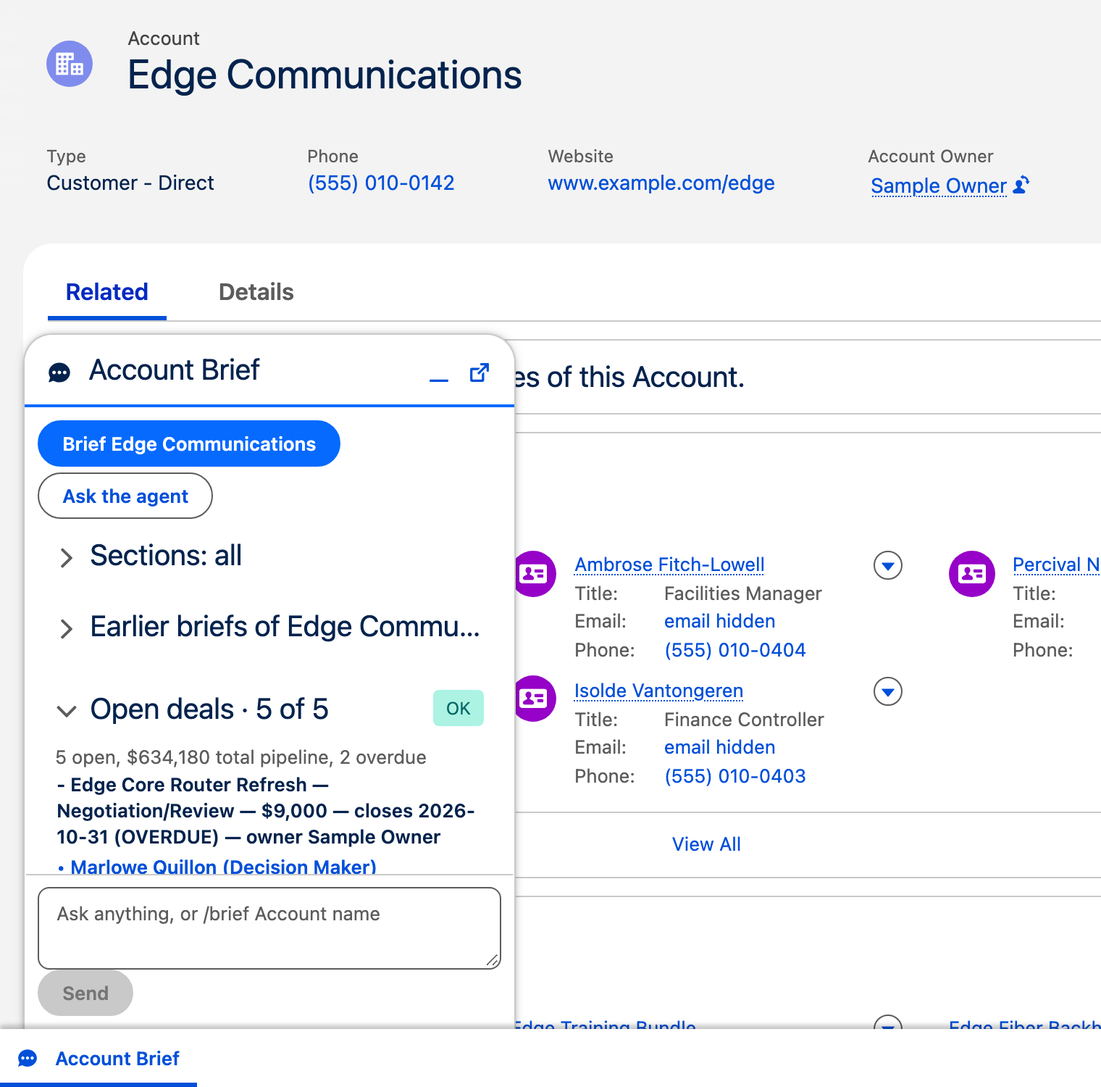
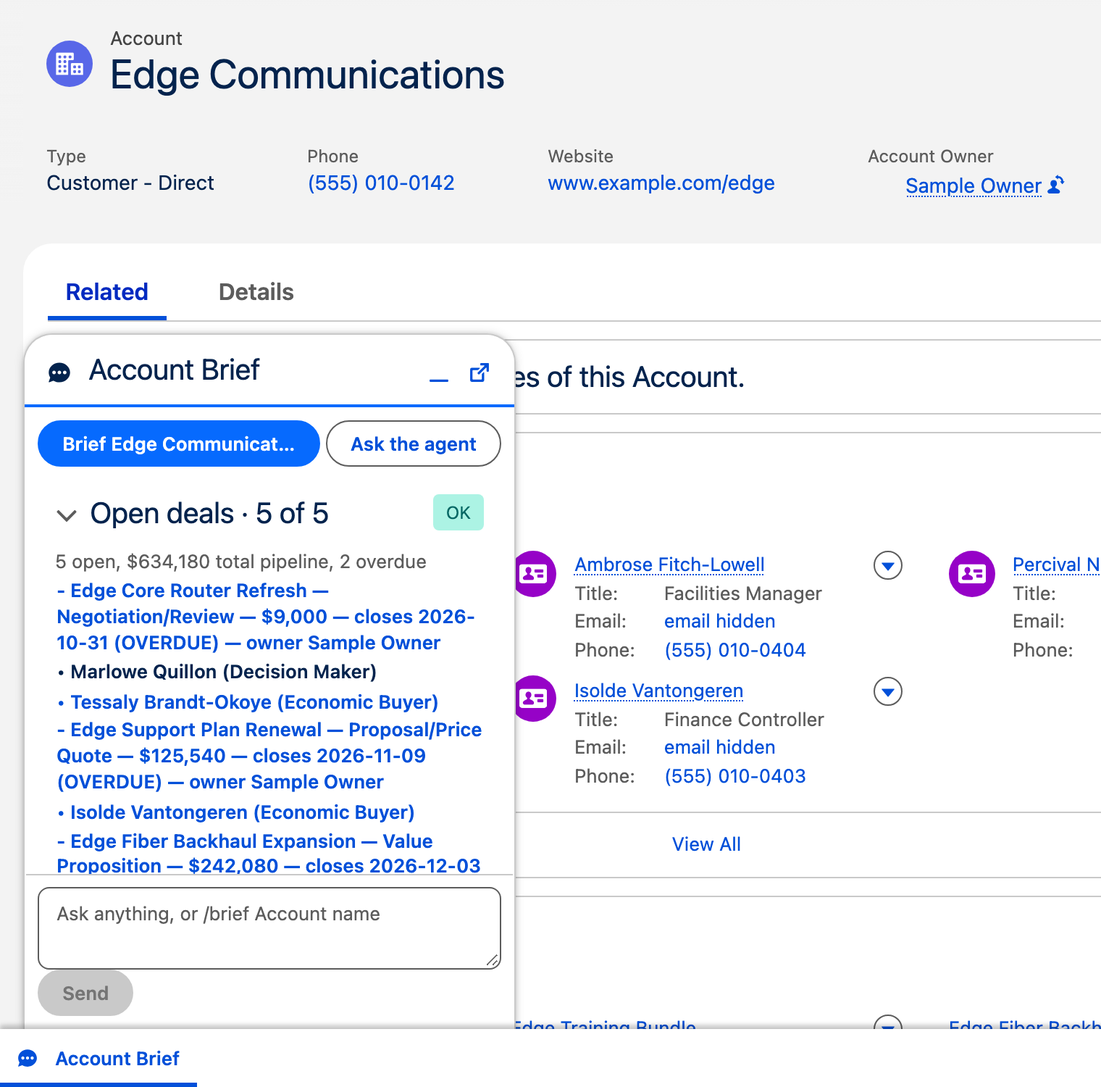
FE-10: recaptured assets on the one-row bar; captions, MANIFEST and docs match; v2 active, new NOT_FOUND text
The explore capture asks for a one-sentence answer so the question, answer and table header fit
the 273 px scroll box. Every still and GIF is from capture run 2.

diff --git a/e2e/capture/04-explore.capture.js b/e2e/capture/04-explore.capture.js
@@ -6,7 +6,9 @@
 const { test, expect, watch, still, gif, at, settle, savedVideo } = require('./kit');
 const { ANSWER_TIMEOUT } = require('../support/panel');
 
-const QUESTION = 'Which 5 open opportunities have the largest amounts?';
+// The explorer tends to list every row in its text, which pushes the table out of a 340x480 panel;
+// asking for one sentence keeps the question, the answer and the table's header row in one view.
+const QUESTION = 'Which 5 open opportunities have the largest amounts? Answer in one sentence.';
 
 test('explore-answer.png, explore-drill.gif, drill-view.png', async ({ page, panel, t0 }) => {
     const guard = watch(page, 'the explorer');
@@ -19,7 +21,7 @@ test('explore-answer.png, explore-drill.gif, drill-view.png', async ({ page, pan
     await expect(rows.first()).toBeVisible();
     await panel.composer.blur();
 
-    // explore-answer.png: the question at the top of the scroll box, then the one-line answer, the
+    // explore-answer.png: the question at the top of the scroll box, then the one-sentence answer, the
     // table's title and its header row. The run fails, naming the CSS px, if the header row does not
     // fit under the question: the still would not show what its caption says.
     const question = turn.locator('.abp-question').first();

diff --git a/README.md b/README.md
@@ -3,7 +3,7 @@
 **One keystroke in Salesforce gives a rep a sourced account brief or an answer about their CRM
 data, using only the records that rep is allowed to see.**
 
-![On an account page the Account Brief panel opens, "/brief Edge Communications" is typed and sent, the brief arrives, and the panel ends on its headline: "Two deals are overdue, including the support plan renewal critical to the account relationship, while a high-priority router case is escalated today."](docs/assets/brief-flow.gif)
+![The Account Brief panel on an account page: it opens with an empty conversation, "/brief Edge Communications" is typed and sent, a spinner shows, and the brief arrives and settles on its headline, "Two overdue deals and a high-priority BGP case threaten the support-plan renewal now in discussion with finance.", with the Account, Open deals and Service health rows under it](docs/assets/brief-flow.gif)
 
 This repo is a working Salesforce DX project. It holds an Agentforce Employee agent, a Lightning
 utility-bar panel, and the Apex behind both. Each part is written up as a pattern you can copy
@@ -19,7 +19,7 @@ metadata: prompts are plain-text static resources.
 | 3 | Hotkey panel | Cmd/Ctrl-K from any page in the app. No tab switching and no lost place. | [03](docs/patterns/03-hotkey-panel.md) |
 | 4 | Model provider seam | One class decides which model runs. You can swap it without touching the features. | [04](docs/patterns/04-model-provider-seam.md) |
 | 5 | Conversation memory | Follow-ups work, and earlier briefs of an account are listed when you come back. | [05](docs/patterns/05-conversation-memory.md) |
-| 6 | Agent routing and verbatim relay | The built-in Agentforce panel sends each ask to the same Apex as the custom panel. The current script is live in `agent-probe`; the org it was first built in still runs the older version 1. | [06](docs/patterns/06-agent-routing-and-verbatim-relay.md) |
+| 6 | Agent routing and verbatim relay | The built-in Agentforce panel sends each ask to the same Apex as the custom panel. Version 2 of the current script is active in `agent-probe`; the org it was first built in still runs the older version 1. | [06](docs/patterns/06-agent-routing-and-verbatim-relay.md) |
 | 7 | Trust, access and failure | Users see only what they can already see. Failures read as one plain sentence, never a stack trace. | [07](docs/patterns/07-trust-access-and-failure.md) |
 | 8 | Test and release lifecycle | Every change passes local, org and agent checks before anyone relies on it. | [08](docs/patterns/08-test-and-release-lifecycle.md) |
 | 9 | Outside door (MCP) | AI clients outside Salesforce can ask for the same brief under the same rules. Designed, not yet proven. | [09](docs/patterns/09-outside-door-mcp.md) |
@@ -91,8 +91,8 @@ once the agent is published. The panel needs only `Account_Brief_Data_Access`.
 
 The agent in the built-in Agentforce panel needs one more step: publish and activate the
 `Account_Brief` bundle. In `agent-probe`, a fresh Developer Edition org, main's bundle published
-on the first try and its version 1 is active
-([org-migration.md](docs/research/org-migration.md)). In the org this was first built in, every
+on the first try as version 1 ([org-migration.md](docs/research/org-migration.md)), and version 2,
+published over it, is now the active version ([agent-iteration-1.md](docs/research/agent-iteration-1.md)). In the org this was first built in, every
 CLI publish fails with a server `401`, and Studio's Commit Version fails too with a "couldn't
 commit a version" message; its network response was not captured, so whether it is the same
 `401` is not known ([agent-publish-spike.md](docs/research/agent-publish-spike.md)). The panel
@@ -140,12 +140,12 @@ The method behind the layers is in [08: Test and release lifecycle](docs/pattern
 | Calling the agent from Apex | Proven by a two-turn probe | [agent-api.md](docs/research/agent-api.md) |
 | An MCP server lists and adds the actions as tools | Proven by a probe | [salesforce-mcp.md](docs/research/salesforce-mcp.md) |
 | Real deploy of main to the org | Proven: 60 components, 150 of 150 Apex tests | [deploy-verify.md](docs/research/deploy-verify.md) |
-| Panel in a real org | Proven as an admin user: 8 of 8 Playwright specs, on the first run in the org this was built in, and in `agent-probe` (3.0 minutes, the run in the e2e report; the first run there passed 7 of 8, and spec 2 has failed now and then since, cause not found, see [e2e/README.md](e2e/README.md)) | [deploy-verify.md](docs/research/deploy-verify.md), [e2e report](docs/assets/e2e-report.png) |
+| Panel in a real org | Proven as an admin user: 8 of 8 Playwright specs, on the first run in the org this was built in, and in `agent-probe` (3.1 minutes, the run in the e2e report; the first run there passed 7 of 8, and spec 2 has failed now and then since, cause not found, see [e2e/README.md](e2e/README.md)) | [deploy-verify.md](docs/research/deploy-verify.md), [e2e report](docs/assets/e2e-report.png) |
 | Code reviews of main | Apex: ready with fixes. Panel: ready with fixes. Agent: **not ready**, one blocker (no fixed version can be published in the org this was built in; it has since been published in `agent-probe`) | [apex-review-2.md](docs/reviews/apex-review-2.md), [lwc-review-2.md](docs/reviews/lwc-review-2.md), [agent-review-2.md](docs/reviews/agent-review-2.md) |
 | A run as a non-admin user | **Not yet proven** | Only Apex `runAs` tests so far; see [07](docs/patterns/07-trust-access-and-failure.md) |
 | A real MCP tool call | **Not yet proven** | See [09](docs/patterns/09-outside-door-mcp.md) |
 | The panel calling the registered agent | **Not yet proven**, not built | See [06](docs/patterns/06-agent-routing-and-verbatim-relay.md) |
-| The fixed script published and active | Proven in `agent-probe`: version 1, published from main, is active. In the org this was first built in, every CLI publish returns `401` and Studio's Commit Version also fails, and version 1 there is still the script before the fixes | [org-migration.md](docs/research/org-migration.md), [agent-publish-spike.md](docs/research/agent-publish-spike.md) |
-| A version 2 published over an active version | **Not yet proven** | Only version 1 has been published in `agent-probe` |
-| Agent test spec run in the org | Proven in `agent-probe`: 12 of 12 cases, 36 of 36 assertions, against the active version 1 | [org-migration.md](docs/research/org-migration.md) |
+| The fixed script published and active | Proven in `agent-probe`: version 2, published from main, is active. In the org this was first built in, every CLI publish returns `401` and Studio's Commit Version also fails, and version 1 there is still the script before the fixes | [agent-iteration-1.md](docs/research/agent-iteration-1.md), [org-migration.md](docs/research/org-migration.md), [agent-publish-spike.md](docs/research/agent-publish-spike.md) |
+| A version 2 published over an active version | Proven in `agent-probe`: version 2 was published while version 1 was active, then activated in its place | [agent-iteration-1.md](docs/research/agent-iteration-1.md) |
+| Agent test spec run in the org | Proven in `agent-probe`: 16 of 16 cases against the active version 2. Explore history across turns was checked only in a preview of the local bundle. Version 1 passed the earlier 12 cases, 36 of 36 assertions | [agent-iteration-1.md](docs/research/agent-iteration-1.md), [org-migration.md](docs/research/org-migration.md) |
 | A clean install from "See it in 5 minutes" | **Not yet proven** | Main has been deployed to the org it was built in, not installed into a new org from these steps |

diff --git a/docs/patterns/06-agent-routing-and-verbatim-relay.md b/docs/patterns/06-agent-routing-and-verbatim-relay.md
@@ -6,10 +6,11 @@ Reps who use the built-in Agentforce panel get the same brief and the same data 
 custom panel. The agent decides which of two jobs a message is, then passes the Apex answer
 through without rewording it.
 
-The current script runs live in `agent-probe`, a fresh Developer Edition org. There, version 1
+The current script runs live in `agent-probe`, a fresh Developer Edition org. There, version 2
 of `Account_Brief`, published from main with this script, is the active version. The
-screenshots below come from it, and the 12-case agent test passed against it
-([org-migration.md](../research/org-migration.md)). In the org it was first built in, version 1
+screenshots below come from it, and the 16-case agent test passed against it
+([agent-iteration-1.md](../research/agent-iteration-1.md)). Version 1 was published there first
+and passed the 12-case test ([org-migration.md](../research/org-migration.md)). In the org it was first built in, version 1
 is still the script from before the review fixes, and every publish there fails. See "Limits and
 open items".
 
@@ -67,9 +68,9 @@ sequenceDiagram
 
 ## See it
 
-![The built-in Agentforce panel, titled Account Brief, docked over an account page: the question "Brief me on Edge Communications", then the agent's reply, opening with "Two deals are overdue and a high-priority escalated case reports BGP sessions dropping under load.", then an Account paragraph, an Open deals paragraph and the start of a People & engagement paragraph, partly under a scroll-down button above the message box](../assets/agent-brief.png)
+![Version 2 of the agent in the built-in Agentforce panel, titled Account Brief, docked over an account page: the question "Brief me on Edge Communications", then the reply, opening with "Two overdue deals and a high-priority escalated BGP case need immediate attention.", then an Account paragraph and an Open deals paragraph whose end is under a scroll-down button above the message box](../assets/agent-brief.png)
 
-![The same built-in panel after the question "How many open opportunities are there in the whole org?": the reply "There are 36 open opportunities in the whole org.", a line explaining that these are opportunities where IsClosed is false, "Count 36", and the like, dislike and copy buttons](../assets/agent-explore.png)
+![The same built-in panel on version 2 after the question "How many open opportunities are there in the whole org?": the reply "There are 36 open opportunities in the whole org.", a paragraph explaining that these are opportunities where IsClosed is false, "Count 36", and the like, dislike and copy buttons](../assets/agent-explore.png)
 
 ## Why you can trust it
 
@@ -80,7 +81,7 @@ sequenceDiagram
   (`test_explore_runs_explore_data_deterministically`), rule 1 coming before the follow-up rule,
   and the off-topic line.
 - **The spec is checked for shape.** The same file checks that
-  [Account_Brief-testSpec.yaml](../../tests/agent/Account_Brief-testSpec.yaml) has 12 utterances,
+  [Account_Brief-testSpec.yaml](../../tests/agent/Account_Brief-testSpec.yaml) has 16 utterances,
   including AMBIGUOUS, a two-turn follow-up, an org-wide count after a brief, and NOT_FOUND then
   a follow-up.
 - **It ran live.** All 12 cases routed correctly in Studio preview against the draft version
@@ -88,11 +89,14 @@ sequenceDiagram
   replies equalled the action's text, with one exception: in case 11 two table headers that were
   dotted field paths came back as `URL_Redacted`. The explorer now writes plain column labels
   instead (see [02](02-ask-anything-explorer.md)), and that change has not been previewed yet.
-- **It runs as the active version.** In `agent-probe`, `sf agent test run` of the 12-case spec
-  passed 12 of 12 cases and 36 of 36 assertions against the active version 1, and a two-turn
-  check passed both turns ([org-migration.md](../research/org-migration.md)). In case 7 the agent
-  called `resolve_account` before `get_brief`, where the spec expects `get_brief` alone, and the
-  runner still scored it a pass.
+- **It runs as the active version.** In `agent-probe`, `sf agent test run` of the 16-case spec
+  passed 16 of 16 cases against the active version 2, and a two-turn brief check passed both
+  turns ([agent-iteration-1.md](../research/agent-iteration-1.md)). Explore history across turns
+  was checked only in a preview of the local bundle, because the test runner does not set it.
+  Version 1 passed the earlier 12 cases and 36 of 36 assertions
+  ([org-migration.md](../research/org-migration.md)). In case 7 the agent called
+  `resolve_account` before `get_brief`, where the spec expects `get_brief` alone, and the runner
+  still scored it a pass.
 - **Review findings are fixed in script.** The agent review ([agent-review.md](../reviews/agent-review.md))
   found org-wide questions scoped to the briefed account (finding 1), the resolve message relayed
   on RESOLVED (2), no route out of a subagent (3), a null Id passing the gate (4), and a system
@@ -129,19 +133,23 @@ sequenceDiagram
   a fresh Developer Edition org, the same bundle from main published on its first try and its
   version 1 is active ([org-migration.md](../research/org-migration.md)), so the fault is
   specific to that one org.
-- Only version 1 exists in `agent-probe`. Publishing and activating a second version over an
-  active one has not been done in either org.
+- In `agent-probe`, version 2 was published while version 1 was active and then activated in its
+  place ([agent-iteration-1.md](../research/agent-iteration-1.md)). The first publish of it failed
+  on a variable description over 255 characters and created no version.
 - Should-fix from the agent re-review ([agent-review-2.md](../reviews/agent-review-2.md)):
-  - N3: an explorer follow-up through the agent gets no history, so "Which close this quarter?"
-    loses the question before it. A pronoun can also send the follow-up to the briefed account.
+  - N3, fixed in version 2: the explore step now passes the previous question and answer as
+    history, and a pronoun after an explore answer stays with the explorer. The history part was
+    checked only in a preview of the local bundle
+    ([agent-iteration-1.md](../research/agent-iteration-1.md)).
   - N4: the explorer runs before the explore step can hand a misrouted message back, so that
     work can be wasted or relayed for the wrong question (suspected).
   - N5: access needs two permission sets plus a standard one, with no group and no setup doc.
     See [07](07-trust-access-and-failure.md).
   - N6: word-for-word relay of explorer tables is unproven on the current Apex.
 - Still open from the first review: a brief on the wrong account is stopped only by instruction
-  text (finding 6), and the NOT_FOUND reply says "open the account and ask again" although the
-  open record is not passed in (finding 12, Studio's one warning).
+  text (finding 6). Finding 12 is fixed in version 2: the NOT_FOUND reply now says "Try a fuller
+  or different account name." instead of asking the rep to open the account, which the agent
+  does not pass in.
 - Agent turns are slow. The Apex probe recorded 14 to 18 seconds per turn
   ([agent-api.md](../research/agent-api.md)). The custom panel calls the same Apex directly.
 - The custom panel's "Ask the agent" button only opens the built-in panel and sends the question.

diff --git a/docs/assets/MANIFEST.md b/docs/assets/MANIFEST.md
@@ -9,24 +9,24 @@ KB of 1,024 bytes and MB of 1,048,576 bytes.
 
 Pages 04 (model provider seam) and 09 (outside door, MCP) use diagrams only and have no slots.
 Page 06 (agent routing) has two slots for the built-in Agentforce panel. They were captured in
-the `agent-probe` org, where version 1 of Account_Brief, published from main with the current
-script, is the active version (see [org-migration](../research/org-migration.md)).
+the `agent-probe` org, where version 2 of Account_Brief, published from main with the current
+script, is the active version (see [agent-iteration-1](../research/agent-iteration-1.md)).
 
 | File | What it shows | Used by | Status | Pixel size | File size |
 |---|---|---|---|---|---|
-| `brief-flow.gif` | The panel opens, "/brief Edge Communications" is typed and sent, the brief arrives, and the GIF ends on a settled frame with the headline | [README](../../README.md), [01](../patterns/01-route-gather-reduce.md) | captured | 760x750 | 1.91 MB (12.0 s) |
-| `panel-brief.png` | A finished brief scrolled to its headline sentence and the start of the summary; the sections are below, out of view | [01](../patterns/01-route-gather-reduce.md) | captured | 1520x1500 | 207 KB |
-| `explore-answer.png` | The result table for an org-wide question: its caption, header row, first row and the top of the second; the question and one-line answer are above, out of view | [02](../patterns/02-ask-anything-explorer.md) | captured | 1520x1500 | 198 KB |
-| `explore-drill.gif` | Click a result row, the drill view opens, the breadcrumb goes back | [02](../patterns/02-ask-anything-explorer.md) | captured | 760x750 | 1011 KB (7.8 s) |
-| `drill-view.png` | The drill view of one record | [02](../patterns/02-ask-anything-explorer.md) | captured | 1520x1500 | 190 KB |
-| `hotkey-open.gif` | Cmd/Ctrl-K opens the panel with the composer focused, a question is typed, and Esc minimizes it | [03](../patterns/03-hotkey-panel.md) | captured | 760x750 | 1.37 MB (8.0 s) |
-| `panel-sections-open.png` | The panel at 340 px wide with the Open deals section expanded | [03](../patterns/03-hotkey-panel.md) | captured | 1520x1500 | 216 KB |
-| `memory-followup.png` | A follow-up question answered from the earlier brief | [05](../patterns/05-conversation-memory.md) | captured | 1520x1500 | 206 KB |
-| `agent-brief.png` | The built-in Agentforce panel in the Account Brief app answering "Brief me on Edge Communications" | [06](../patterns/06-agent-routing-and-verbatim-relay.md) | captured | 1520x1500 | 291 KB |
-| `agent-explore.png` | The built-in Agentforce panel answering an org-wide count question | [06](../patterns/06-agent-routing-and-verbatim-relay.md) | captured | 1520x1500 | 148 KB |
-| `not-found.png` | The fixed NOT_FOUND line for an unknown account | [07](../patterns/07-trust-access-and-failure.md) | captured | 1520x1500 | 189 KB |
-| `ambiguous.png` | The AMBIGUOUS reply with its candidate lines | [07](../patterns/07-trust-access-and-failure.md) | captured | 1520x1500 | 206 KB |
-| `e2e-report.png` | The Playwright HTML report for a full run | [README](../../README.md), [03](../patterns/03-hotkey-panel.md), [08](../patterns/08-test-and-release-lifecycle.md) | captured | 1600x1800 | 267 KB |
+| `brief-flow.gif` | The panel opens, "/brief Edge Communications" is typed and sent, a spinner shows, and the GIF ends on a settled frame with the headline, the "Full summary" toggle and the Account, Open deals and Service health rows | [README](../../README.md), [01](../patterns/01-route-gather-reduce.md) | captured | 760x750 | 1.83 MB (12.0 s) |
+| `panel-brief.png` | A finished brief under the one-row bar: the request, the headline, the collapsed "Full summary" toggle and the first three section rows (Account, Open deals, Service health) | [01](../patterns/01-route-gather-reduce.md) | captured | 1520x1500 | 206 KB |
+| `explore-answer.png` | An org-wide question, its one-sentence answer over five lines, and the result table's caption, header row, first row and the top of the second | [02](../patterns/02-ask-anything-explorer.md) | captured | 1520x1500 | 229 KB |
+| `explore-drill.gif` | Click a result row, the drill view opens, the breadcrumb goes back to the conversation | [02](../patterns/02-ask-anything-explorer.md) | captured | 760x750 | 1018 KB (7.8 s) |
+| `drill-view.png` | The drill view of one record under its breadcrumb | [02](../patterns/02-ask-anything-explorer.md) | captured | 1520x1500 | 190 KB |
+| `hotkey-open.gif` | Cmd/Ctrl-K opens the panel with the composer focused, a question is typed, and Esc minimizes it | [03](../patterns/03-hotkey-panel.md) | captured | 760x750 | 1.56 MB (8.3 s) |
+| `panel-sections-open.png` | The panel at 340 px wide with the Open deals section expanded under the one-row bar | [03](../patterns/03-hotkey-panel.md) | captured | 1520x1500 | 256 KB |
+| `memory-followup.png` | A follow-up question answered from the earlier brief, then four suggested follow-ups | [05](../patterns/05-conversation-memory.md) | captured | 1520x1500 | 232 KB |
+| `agent-brief.png` | Version 2 of the agent in the built-in Agentforce panel in the Account Brief app, answering "Brief me on Edge Communications" | [06](../patterns/06-agent-routing-and-verbatim-relay.md) | captured | 1520x1500 | 288 KB |
+| `agent-explore.png` | Version 2 of the agent in the built-in Agentforce panel, answering an org-wide count question | [06](../patterns/06-agent-routing-and-verbatim-relay.md) | captured | 1520x1500 | 153 KB |
+| `not-found.png` | The fixed NOT_FOUND line for an unknown account, "Try a fuller or different account name." | [07](../patterns/07-trust-access-and-failure.md) | captured | 1520x1500 | 187 KB |
+| `ambiguous.png` | The AMBIGUOUS reply with its three candidate buttons | [07](../patterns/07-trust-access-and-failure.md) | captured | 1520x1500 | 207 KB |
+| `e2e-report.png` | The Playwright HTML report for a full run: 8 of 8 passed, 3.1 minutes | [README](../../README.md), [03](../patterns/03-hotkey-panel.md), [08](../patterns/08-test-and-release-lifecycle.md) | captured | 1600x1800 | 274 KB |
 
 Rules for every capture: no record Ids, org Ids, usernames, the running user's name, email
 addresses, URL bars or URLs with query strings in view. Use the seeded sample data only.

diff --git a/docs/patterns/03-hotkey-panel.md b/docs/patterns/03-hotkey-panel.md
@@ -54,19 +54,25 @@ sequenceDiagram
    because the panel is not a modal. Esc from any control minimizes and returns focus.
 8. **Other components can drive it.** A message on the `AccountBriefOpen` channel opens the panel
    and runs a prompt with that message's record as context, or briefs an Account Id sent alone.
+9. **The answer gets the room.** Only one row is pinned above the conversation: the Brief button,
+   whose label truncates when it is long but keeps "Brief <Account name>" as its accessible name,
+   and "Ask the agent". "Sections" and "Earlier briefs" sit at the top of the scroll box and
+   scroll away. A brief's summary shows its headline, with the rest behind a "Full summary"
+   toggle, so the section headers are in view under it.
 
 ## See it
 
-![The Account Brief panel opens over an account page with an empty composer, "Which cases are still open?" is typed into it, then the panel minimizes back to the utility bar](../assets/hotkey-open.gif)
+![The Account Brief panel opens over an account page with the Sections and Earlier briefs rows and an empty composer, "Which cases are still open?" is typed into it, then the panel minimizes back to the utility bar](../assets/hotkey-open.gif)
 
-![The panel with the Open deals section expanded: "Open deals · 5 of 5" with an OK badge, "5 open, $634,180 total pipeline, 2 overdue", and the first deal, Edge Core Router Refresh, marked OVERDUE, above the composer](../assets/panel-sections-open.png)
+![The panel with the Open deals section expanded under the one-row bar: "Open deals · 5 of 5" with an OK badge, "5 open, $634,180 total pipeline, 2 overdue", then Edge Core Router Refresh and Edge Support Plan Renewal, each marked OVERDUE with its contacts, and the start of Edge Fiber Backhaul Expansion, above the composer](../assets/panel-sections-open.png)
 
 ## Why you can trust it
 
 - **Jest covers the behaviour.** [accountBriefPanel.test.js](../../force-app/main/default/lwc/accountBriefPanel/__tests__/accountBriefPanel.test.js)
   has tests for the hotkey by key code on and off Mac, Shift, Alt and Cmd being ignored off Mac,
   yielding to an earlier handler, six latest-wins cases, Esc returning focus, Tab never trapped,
-  Enter and IME, the live region, markup rendered as text, and three axe checks.
+  Enter and IME, the live region, markup rendered as text, the one-row bar, the "Full summary"
+  toggle, and three axe checks.
 - **The metadata shape is tested.** [test_app.py](../../tests/test_app.py) checks the utility bar
   has exactly one item, the panel, with its properties, and that the app references it.
 - **Review findings are fixed in code.** The LWC review ([lwc-review.md](../reviews/lwc-review.md))
@@ -78,10 +84,10 @@ sequenceDiagram
   panel "Ready with fixes" with no blockers, and its own Jest run passed 36 of 36 with 89.5% line
   coverage of the panel's JavaScript.
 - **It runs in a real org.** The Playwright suite ([e2e/README.md](../../e2e/README.md)) passed
-  8 of 8 as an admin user: the hotkey before first open, Esc returning focus, the live region, the
-  pinned composer, latest wins, Enter to send, a drill and back, and axe. It passed on its first
+  8 of 8 as an admin user: the hotkey before first open, Esc returning focus, the live region, a
+  pinned bar of at most 80 px over a scroll box of at least 240 px, the pinned composer, latest wins, Enter to send, a drill and back, and axe. It passed on its first
   run in the org this was built in ([deploy-verify.md](../research/deploy-verify.md)) and in
-  `agent-probe`, where the [e2e report](../assets/e2e-report.png) was taken (3.0 minutes). The first
+  `agent-probe`, where the [e2e report](../assets/e2e-report.png) was taken (3.1 minutes). The first
   run in `agent-probe` passed 7 of 8, and spec 2 (Esc returning focus) has failed now and then since,
   cause not found ([e2e/README.md](../../e2e/README.md)).
 

diff --git a/docs/patterns/08-test-and-release-lifecycle.md b/docs/patterns/08-test-and-release-lifecycle.md
@@ -63,7 +63,7 @@ sequenceDiagram
 
 ## See it
 
-![The Playwright HTML report: 8 of 8 panel specs passed in Chromium, each with a check mark and its duration, total time 3.0 minutes](../assets/e2e-report.png)
+![The Playwright HTML report: 8 of 8 panel specs passed in Chromium, each with a check mark and its duration, total time 3.1 minutes](../assets/e2e-report.png)
 
 ## Why you can trust it
 
@@ -81,7 +81,10 @@ sequenceDiagram
 - **The agent test ran on an active version.** In `agent-probe`, after the publish and
   activation, `sf agent test run` of the 12-case spec passed 12 of 12 cases and 36 of 36
   assertions against version 1, and the Playwright suite passed 8 of 8 there
-  ([org-migration.md](../research/org-migration.md)). Its first run there passed 7 of 8; spec 2
+  ([org-migration.md](../research/org-migration.md)). Version 2 was then published over it,
+  activated, and passed the 16-case spec, 16 of 16
+  ([agent-iteration-1.md](../research/agent-iteration-1.md)). The Playwright suite's first run there
+  passed 7 of 8; spec 2
   has failed now and then since, cause not found.
 - **The lifecycle follows Salesforce's own skills.** The agent review found the earlier workflow
   skipped the documented draft-first order (finding 8 in [agent-review.md](../reviews/agent-review.md)).
@@ -108,9 +111,10 @@ sequenceDiagram
   ([agent-publish-spike.md](../research/agent-publish-spike.md)). In `agent-probe`, a fresh
   Developer Edition org, the CLI publish of main's bundle returned HTTP 200 on every call, and its
   version 1 was activated ([org-migration.md](../research/org-migration.md)).
-- The org's existing agent test definition is pinned to version 1. Recreate it from the spec and
-  check its subject version before crediting a pass to a new version (agent re-review N2,
-  [agent-review-2.md](../reviews/agent-review-2.md)).
+- An agent test definition is pinned to the version it was created against. In `agent-probe` it
+  was recreated from the spec for version 2 and its subject version checked
+  ([agent-iteration-1.md](../research/agent-iteration-1.md)). Do the same before crediting a pass
+  to any new version (agent re-review N2, [agent-review-2.md](../reviews/agent-review-2.md)).
 - The local gates cannot see defects that show only in Studio or at run time, such as a
   model rewording a reply. That is why the preview rung exists.
 - `apex-scan.sh` needs the Code Analyzer plugin and Java 11 or later. It reports and does not gate.
@@ -120,6 +124,7 @@ sequenceDiagram
   branches ([lwc-review-2.md](../reviews/lwc-review-2.md), N11).
 
 > [!WARNING]
-> **Not yet proven:** publishing and activating a version 2 over an active version, by either
-> route. In `agent-probe` only version 1 has been published, and the org this was first built in
-> cannot publish at all.
+> **Not yet proven:** publishing a version over an active one through Studio. The CLI route is
+> proven in `agent-probe`, where version 2 was published while version 1 was active and then
+> activated ([agent-iteration-1.md](../research/agent-iteration-1.md)). The org this was first
+> built in cannot publish at all.

diff --git a/e2e/README.md b/e2e/README.md
@@ -45,7 +45,7 @@ and writes brief memory rows, as any use of the panel does:
 |---|---|
 | 1. Cmd/Ctrl-K before the utility was ever opened | 0 |
 | 2. Esc returns focus; Tab can leave | 0 |
-| 3. Brief: headline, collapsed accordions, live region | 1 |
+| 3. Brief: headline, collapsed accordions, live region; the pinned bar at most 80 px, the scroll box at least 240 px | 1 |
 | 4. Composer pinned at 340x480, newest answer in view | 2 |
 | 5. Latest wins | 1 |
 | 6. Typing enables Send; Enter sends | 0 |
@@ -65,7 +65,9 @@ roles and labels first, then the panel's test hooks and the data attributes it r
 (`data-turn`, `data-id`, `data-focus`):
 
 - `c-account-brief-panel`, the host, to scope every locator and the axe scan
-- the region named `Conversation`, the scroll box (spec 4)
+- the region named `Conversation`, the scroll box (specs 3 and 4)
+- `.slds-utility-panel__header`, the utility panel's own header (title, Minimize, Pop-out), whose
+  bottom edge spec 3 measures the pinned bar from: the platform renders it with no role or label
 - `data-testid="abp-live-region"`, the panel's polite live region (`lightning-textarea` renders a
   second, empty `role=status`, so the role alone is not enough)
 - `data-testid="abp-spinner"`, the loading spinner's container
@@ -75,6 +77,10 @@ roles and labels first, then the panel's test hooks and the data attributes it r
   section and its header button
 - `article`, to find the drill view's heading
 - `button[data-id]`, a drillable section line or result row
+
+Spec 3 measures the panel at 340x480 after one brief, with the account's "Earlier briefs" list
+rendered: from the panel header's bottom edge to the top of the scroll box is at most 80 CSS px,
+the scroll box is at least 240 CSS px tall, and the Brief and "Ask the agent" buttons share one row.
 
 Every brief line that describes one record (a deal, a contact, a case, a task, a call) is a
 drill button; spec 7 fails if none is. Spec 2 checks that focus is back where the hotkey was
@@ -128,7 +134,12 @@ What it needs:
 What it produces: stills at viewport 1440x900 and deviceScaleFactor 2, cropped to the panel and
 the record header (at most 1600 px wide); GIFs cut from the test's video, 6 to 20 seconds, each
 starting on a settled frame. `brief-flow.gif` cuts most of the spinner wait between Send and the
-answer. Raw videos stay in `test-results/capture/raw/` (gitignored). One frame per second of each
+answer. `panel-brief.png` frames the brief's question at the top of the scroll box, and the run
+fails if the headline and the first two section headers are not all inside it. `explore-answer.png`
+frames the question the same way, and the run fails if the table's header row is not inside it.
+Its question ends "Answer in one sentence." because the explorer otherwise tends to list every row
+in its text, which pushed the header row about 180 px below a 273 px scroll box.
+Raw videos stay in `test-results/capture/raw/` (gitignored). One frame per second of each
 GIF, and its last frame, are written outside the repo for review (`$TMPDIR/abp-capture-frames/`,
 or `CAPTURE_FRAMES_DIR`).
 

diff --git a/docs/patterns/02-ask-anything-explorer.md b/docs/patterns/02-ask-anything-explorer.md
@@ -65,11 +65,11 @@ sequenceDiagram
 
 ## See it
 
-![An explorer result in the panel, scrolled to its table: the caption "Opportunity · 5 of 36 rows", the Name, Amount and StageName headers, the first row, Juniper Project B, and the top of a second, Fernhollow, each name a link; the question and the one-line answer are above, out of view](../assets/explore-answer.png)
+![An explorer result in the panel: the question "Which 5 open opportunities have the largest amounts? Answer in one sentence.", a one-sentence answer over five lines naming Juniper Project B ($293,920), Fernhollow Project C ($280,960), Pimble Project B ($274,480), Oddfellow Project A ($268,000) and United Oil Singapore Terminal Link ($255,040), then the caption "Opportunity · 5 of 36 rows", the Name, Amount and StageName headers, the first row, Juniper Project B, and the top of a second, Fernhollow](../assets/explore-answer.png)
 
-![An Opportunity result table, then the drill view of one row under a "Conversation" breadcrumb, then the table again](../assets/explore-drill.gif)
+![The explorer result, then the drill view of Juniper Project B under a "Conversation > Juniper Project B" breadcrumb, then the conversation again, showing the end of the answer and the table's first three rows](../assets/explore-drill.gif)
 
-![The drill view of one Opportunity: the breadcrumb "Conversation > Juniper Project B", the record name with its type, Opportunity, and its first fields, Name and StageName](../assets/drill-view.png)
+![The drill view of one Opportunity: the breadcrumb "Conversation > Juniper Project B", the record name with its type, Opportunity, and its fields Name, StageName, Amount, CloseDate and the top of Probability](../assets/drill-view.png)
 
 ## Why you can trust it
 

diff --git a/docs/patterns/07-trust-access-and-failure.md b/docs/patterns/07-trust-access-and-failure.md
@@ -47,8 +47,8 @@ sequenceDiagram
    seven sections and the explorer query `WITH USER_MODE` or `AccessLevel.USER_MODE`. Object
    access, field access and sharing all apply. A rep who cannot see a field gets that section as
    ERROR, not a quiet gap.
-3. **Fixed status texts.** NOT_FOUND from the resolver reads 'No account matches "…". Try the
-   full name or open the account and ask again.' A brief that cannot be finished reads "I couldn't
+3. **Fixed status texts.** NOT_FOUND from the resolver reads 'No account matches "…". Try a
+   fuller or different account name.' A brief that cannot be finished reads "I couldn't
    finish the brief right now. Try again in a minute." These come from Apex constants, and the
    agent relays them as they are.
 4. **AMBIGUOUS is a choice.** Up to 8 candidates, one line each with name, city and Id. The panel
@@ -65,9 +65,9 @@ sequenceDiagram
 
 ## See it
 
-![The panel after "/brief Zephyr Quartz Holdings": "No account matches" that name, with "Try the full name or open the account and ask again."](../assets/not-found.png)
+![The panel after "/brief Zephyr Quartz Holdings": "No account matches "Zephyr Quartz Holdings". Try a fuller or different account name."](../assets/not-found.png)
 
-![The panel after "/brief United Oil": "Several accounts match "United Oil". Which one?", then three candidate buttons, each with its city or "no city"](../assets/ambiguous.png)
+![The panel after "/brief United Oil": "Several accounts match "United Oil". Which one?", then three candidate buttons, United Oil & Gas Corp. — New York, United Oil & Gas, Singapore — Singapore, and United Oil & Gas, UK — no city](../assets/ambiguous.png)
 
 ## Why you can trust it
 

diff --git a/docs/patterns/01-route-gather-reduce.md b/docs/patterns/01-route-gather-reduce.md
@@ -65,9 +65,9 @@ sequenceDiagram
 
 ## See it
 
-![The panel during "/brief Edge Communications": it opens empty, the request is typed and sent, the brief arrives, and the view ends on its headline, "Two deals are overdue, including the support plan renewal critical to the account relationship, while a high-priority router case is escalated today."](../assets/brief-flow.gif)
+![The Account Brief panel on an account page: it opens with an empty conversation, "/brief Edge Communications" is typed and sent, a spinner shows, and the brief arrives and settles on its headline, "Two overdue deals and a high-priority BGP case threaten the support-plan renewal now in discussion with finance.", with the Account, Open deals and Service health rows under it](../assets/brief-flow.gif)
 
-![A finished brief in the panel, scrolled to its headline: "Two deals are overdue, including the support plan renewal critical to the account relationship, while a high-priority router case is escalated today.", then the first line of the Account summary; the section rows are further down, out of view](../assets/panel-brief.png)
+![A finished brief under the one-row bar of "Brief Edge Communicat…" and "Ask the agent": the request "/brief Edge Communications", the headline "Two overdue deals and a high-priority BGP case threaten the support-plan renewal now in discussion with finance.", a collapsed "Full summary" toggle, then the rows Account · 1 of 1, Open deals · 5 of 5 and Service health · 5 of 5, each marked OK, above the composer](../assets/panel-brief.png)
 
 ## Why you can trust it
 

diff --git a/docs/patterns/05-conversation-memory.md b/docs/patterns/05-conversation-memory.md
@@ -60,7 +60,7 @@ sequenceDiagram
 
 ## See it
 
-![The follow-up "In one sentence, what was the main risk in that brief?" answered with "The main risk was two overdue deals, particularly the support plan renewal that is critical to the account relationship.", then a suggested follow-up, "What are the details of the overdue support plan renewal?", and the top edge of a second suggestion](../assets/memory-followup.png)
+![The follow-up "In one sentence, what was the main risk in that brief?" answered with "The main risk is that two overdue deals and a high-priority BGP case threaten the support-plan renewal currently in discussion with finance.", then four suggested follow-ups, the first "What are the details of the two overdue deals?"](../assets/memory-followup.png)
 
 ## Why you can trust it
 
